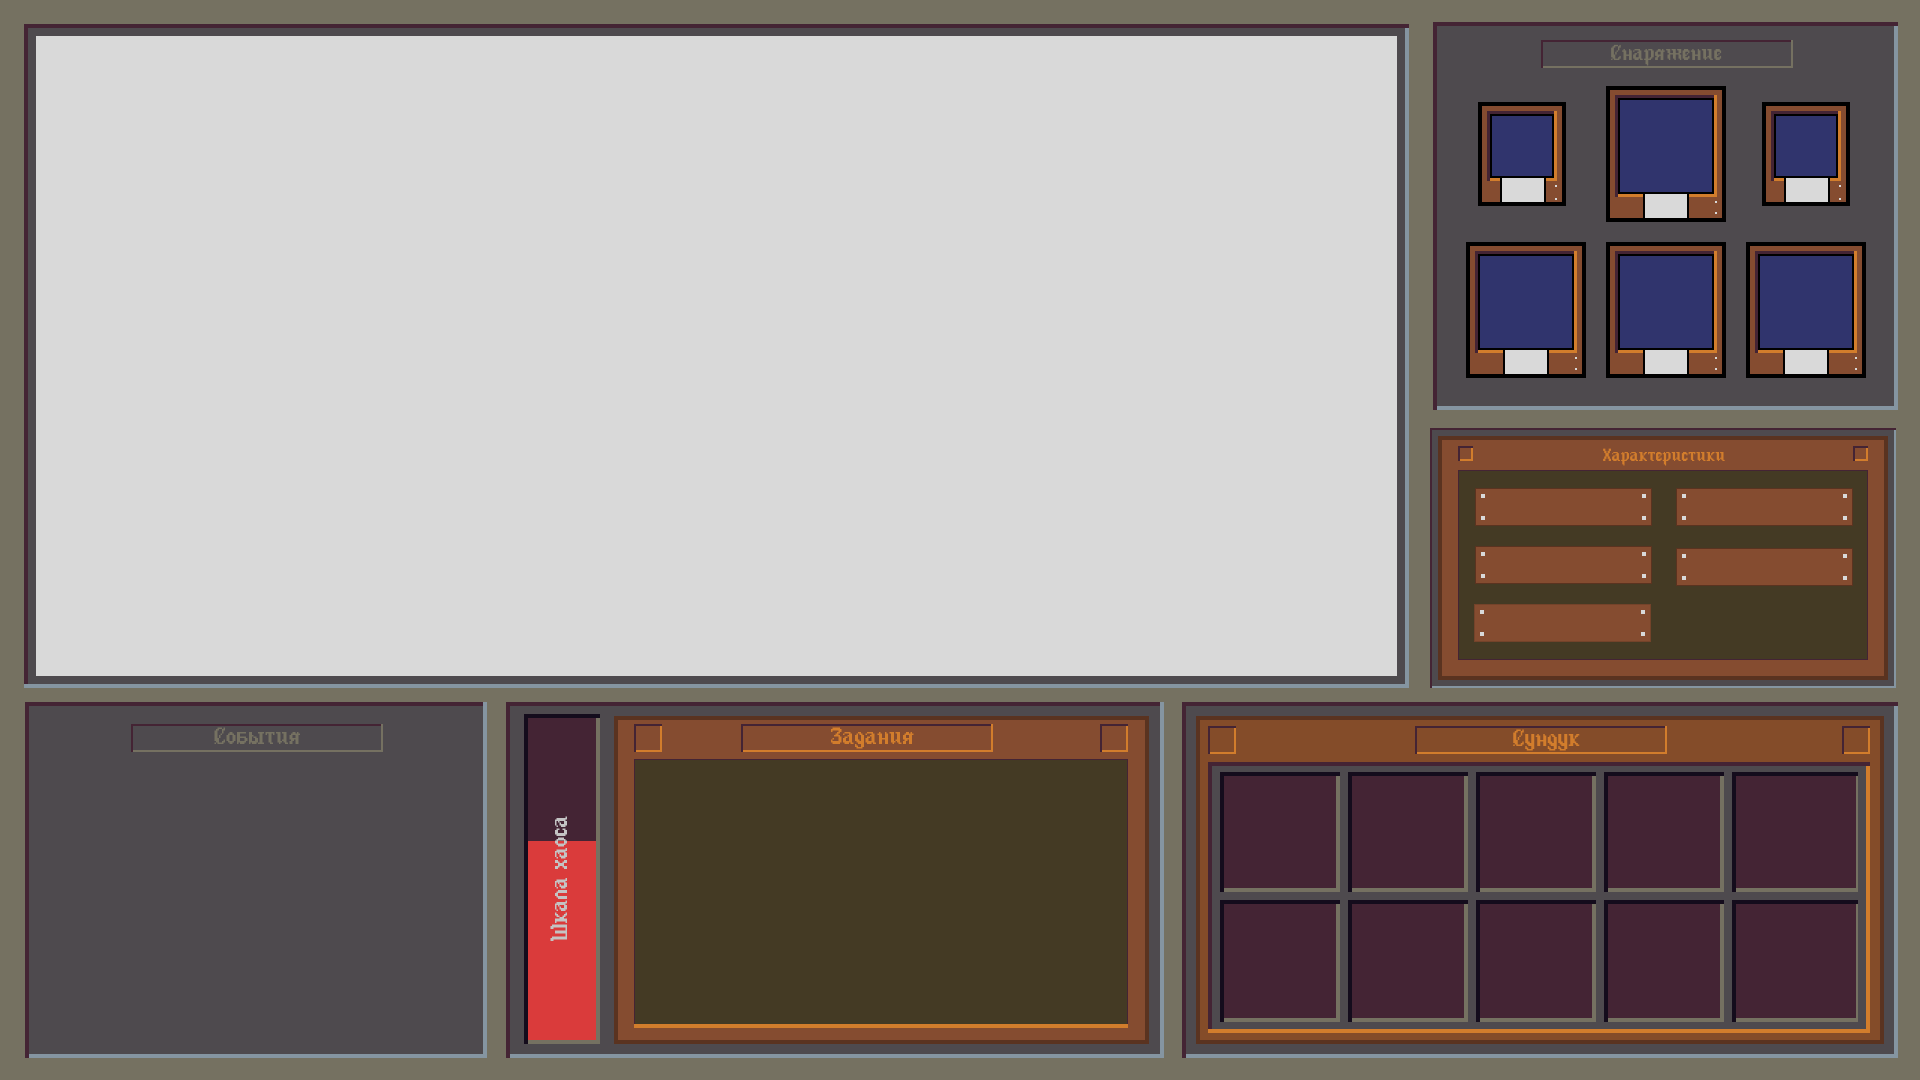
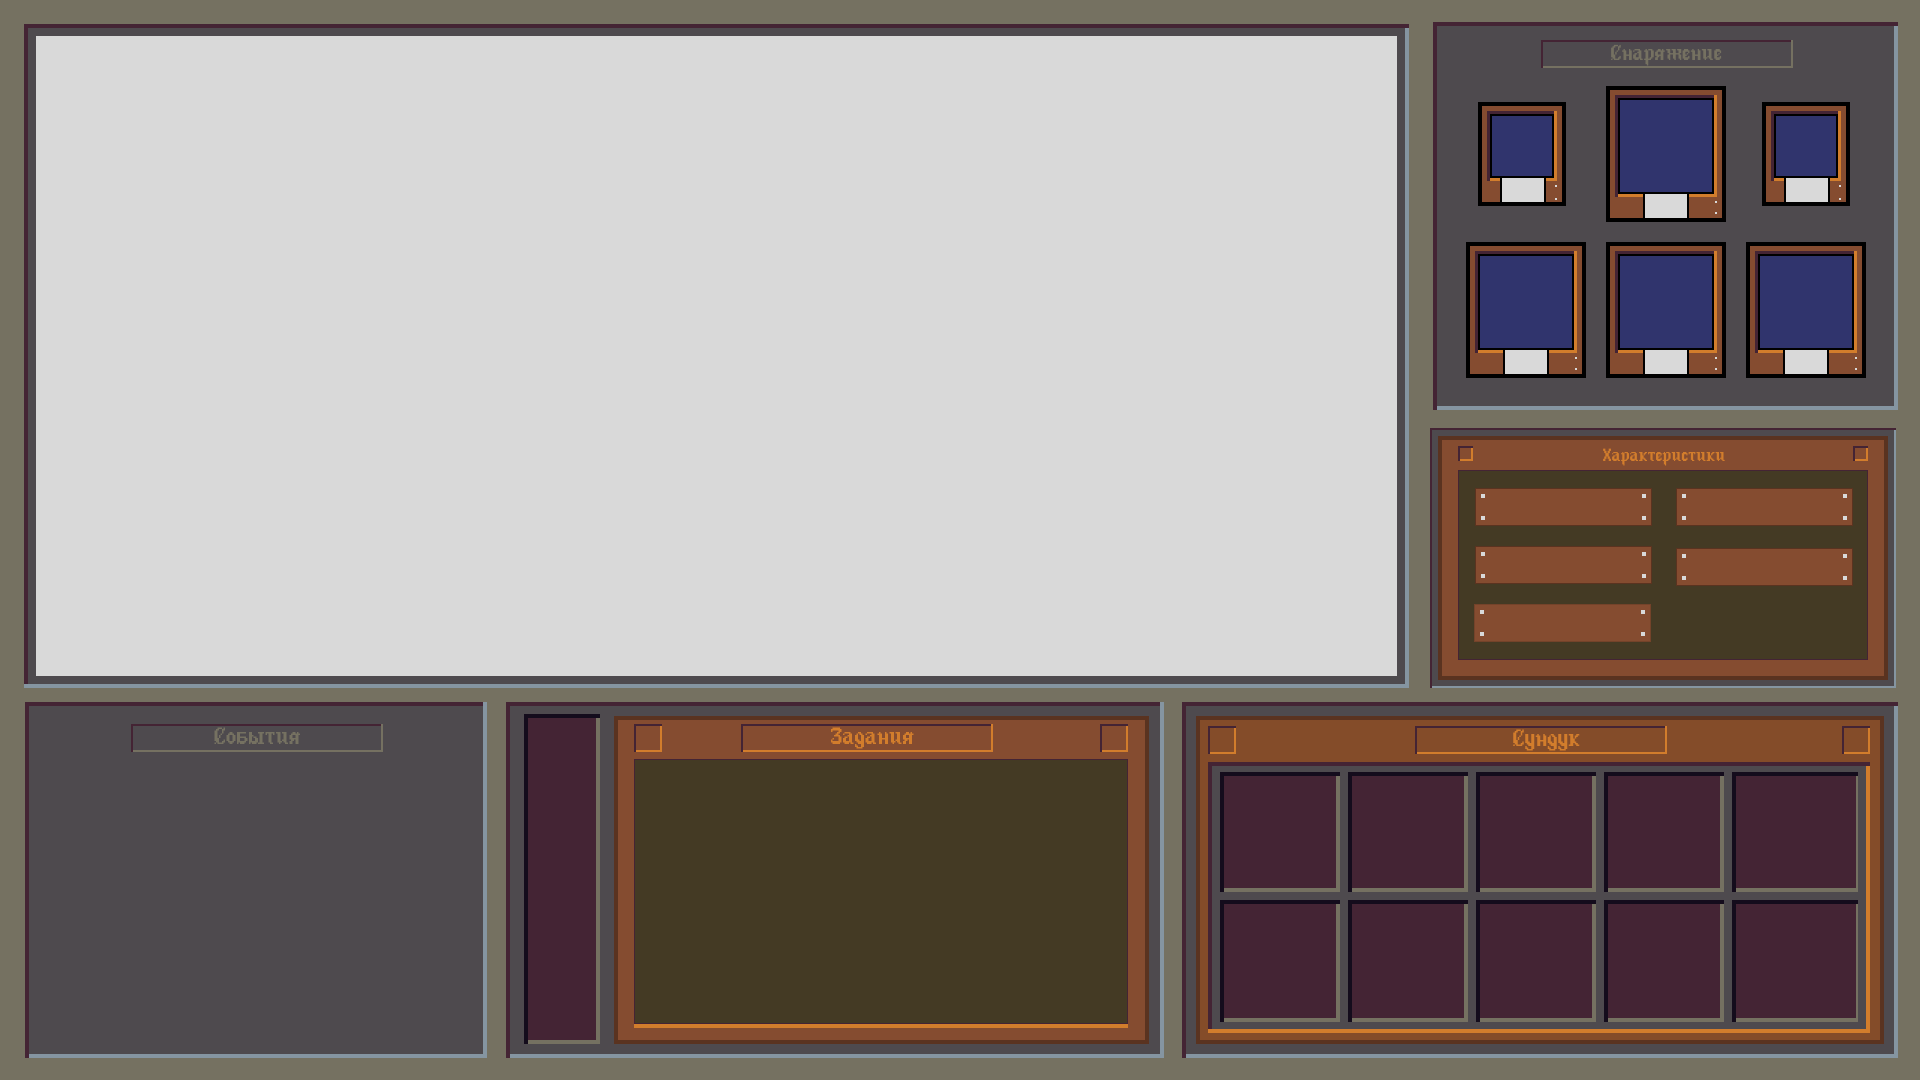
Добавил шкалу хаоса

Changed region(s): [[0.25, 0.7639, 0.3125, 0.9778]]

diff --git a/dev/js/scene/GameScene/interfaceScene/ChaosBarScene.js b/dev/js/scene/GameScene/interfaceScene/ChaosBarScene.js
@@ -1,0 +1,47 @@
+export default class ChaosBarScene extends Phaser.Scene {
+    constructor() {
+        super('ChaosBarScene');
+    }
+
+    create() {
+        // Создаем камеру
+        const camera = this.cameras.main;
+        camera.setSize(76, 324);
+        camera.setPosition(524, 718);
+        // Центрируем камеру по размеру
+        camera.centerOn(76 / 2, 324 / 2);
+
+
+        // Создаем полоску хаоса
+        this.playerHelthBar = this.add.graphics();
+
+        // Рисуем полоску здоровья с начальной шириной
+        this.drawChaosBar((322 / 100) * 80);
+
+        // Создаем текстовый элемент
+        this.textBarHealth = this.add.text(24, 225, 'Шкала хаоса',
+            {
+                fontFamily: 'alundratext',
+                fontSize: '24px',
+                lineSpacing: '10',
+                color: '#C4C4C4',
+                wordWrap: { width: 162 }
+            }).setOrigin(0).setAngle(-90);
+
+    }
+    // Функция для перерисовки полоски здоровья с новой шириной
+    drawChaosBar(newHeight) {
+        // Очищаем graphics
+        this.playerHelthBar.clear();
+
+        // Рисуем полоску с новой шириной
+        this.playerHelthBar.fillStyle(0xDA3B3B, 1);
+        this.playerHelthBar.fillRect(4, 322 - newHeight, 68, newHeight);
+    }
+
+    // Функция для обновления полоски здоровья
+    updateChaos(health) {
+        // Обновляем размер полоски здоровья
+        this.drawHealthBar(health);
+    }
+}

diff --git a/dev/js/scene/GameScene.js b/dev/js/scene/GameScene.js
@@ -7,6 +7,7 @@ import InventoryScene from "./GameScene/interfaceScene/InventoryScene.js";
 import SpecificationsScene from "./GameScene/interfaceScene/SpecificationsScene.js";
 import PlayerBarScene from "./GameScene/interfaceScene/PlayerBarScene.js";
 import player from "../object/player.js";
+import ChaosBarScene from "./GameScene/interfaceScene/ChaosBarScene.js";
 
 export default class GameScene extends Phaser.Scene {
     constructor() {
@@ -48,6 +49,7 @@ export default class GameScene extends Phaser.Scene {
         this.scene.add('InventoryScene', InventoryScene, true);
         this.scene.add('SpecificationsScene', SpecificationsScene, true);
         this.scene.add('PlayerBarScene', PlayerBarScene, true);
+        this.scene.add('ChaosBarScene', ChaosBarScene, true);
 
     }
 
@@ -58,6 +60,7 @@ export default class GameScene extends Phaser.Scene {
         this.scene.remove('InventoryScene');
         this.scene.remove('SpecificationsScene');
         this.scene.remove('PlayerBarScene');
+        this.scene.remove('ChaosBarScene');
         this.scene.start('GameOverScene');
     }
 }

diff --git a/dev/js/object/enemies.js b/dev/js/object/enemies.js
@@ -7,6 +7,7 @@ const enemiesData = [
         health: 50,
         damage: 5,
         color: 0xff0000, // Синий цвет
+        chaos: 5,
         possibleItems: ['hpPotion']
     },
     {
@@ -17,6 +18,7 @@ const enemiesData = [
         health: 80,
         damage: 8,
         color: 0x00ff00, // Синий цвет
+        chaos: 10,
         possibleItems: ['hpPotion']
     },
     {
@@ -27,6 +29,7 @@ const enemiesData = [
         health: 100,
         damage: 12,
         color: 0x0000ff, // Синий цвет
+        chaos: 15,
         possibleItems: ['hpPotion']
     }
     // Можете добавить больше типов противников с их характеристиками и цветами по аналогии
